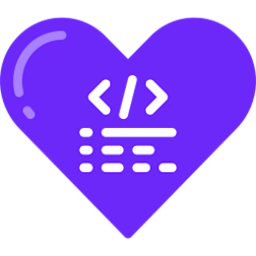
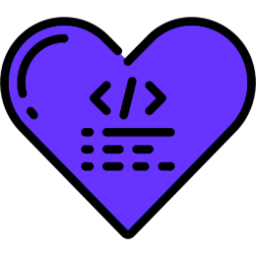
edit style

Changed region(s): [[0.0, 0.0625, 1.0, 0.9375], [0.3438, 0.2812, 0.5312, 0.4688], [0.5625, 0.3125, 0.6562, 0.4688]]

diff --git a/css/styles.css b/css/styles.css
@@ -42,13 +42,14 @@ h1 {
 	font-family: shelby, cursive; 
 font-weight: 700;
 	font-size:5.5em; 
-	line-height: 1.3; 
-	color: #42d5ff;
+	color: #33ccff;
 	text-shadow:
    -0.9px -0.9px 0 #00000040,  
     0.9px -0.9px 0 #00000040,
     -0.9px 0.9px 0 #00000040,
-     2px 2px 0px #000;
+	 2px 2px 0px #000;
+	 margin-bottom: 0!important;
+	 margin-top: 5vh;
 
 }
 
@@ -63,7 +64,7 @@ p{ line-height: 1; font-size: 1.1em; font-weight: 300;
 	 -0.9px 0.9px 0 #00000059,
 	  1.5px 1.5px 0px #000;}
 
-h2{ font-size: 5em; font-weight: 300; line-height: 1; color: #ff13b3; 	
+h2{ font-size: 5em; font-weight: 300; line-height: 1; color: #ff00cc; 	
 	text-shadow:
 	-0.9px -0.9px 0 #00000040,  
 	 0.9px -0.9px 0 #00000040,
@@ -146,7 +147,7 @@ html {
 	display: block;
 	overflow: hidden;
 	position: relative;
-	width: 100px;
+	width: 125px;
 	height: auto;
 
 }
@@ -161,10 +162,12 @@ width: 100%;
 /* .main-area:after{ content:''; position: absolute; top: 0; bottom: 0;left: 0; right: 0; z-index: -1;  
 	opacity: .7; background: linear-gradient(-9deg, #6a82fb 0%, #6a82fb 40%, #fc5c7d 100%); } */
 
-.main-area .desc{ margin: 20px auto; max-width: 500px; }
+.main-area p.desc{ margin: 20px auto; max-width: 500px; }
+
+.main-area div.desc {margin: 0 auto 1em; max-width: 125px; }
 	
-.main-area .notify-btn{ margin: 20px 0; padding: 13px 35px; border-radius: 50px; border: 2px solid #42d5ff;
-	color: #fff; background: #42d5ff; }
+.main-area .notify-btn{ margin: 20px 0; padding: 13px 35px; border-radius: 50px; border: 2px solid #33ccff;
+	color: #fff; background: #33ccff; }
 
 .main-area .notify-btn:hover{ background: none; }
 
@@ -173,21 +176,21 @@ width: 100%;
 
 .main-area .email-input-area{ margin: 40px auto; position: relative; width: 450px; height: 53px; }
 
-.main-area .email-input-area .email-input{ font-family: p22-underground-pc, sans-serif;	width: 100%; position: absolute; top: 0; bottom: 0; left: 0; 
+.main-area .email-input-area .email-input{ width: 100%; position: absolute; top: 0; bottom: 0; left: 0; 
 	border-radius: 40px; border: 0; outline: 0; padding: 0 140px 0 25px; transition: all .2s; background: #F1F2F3; 
-	box-shadow: inset 0 0 1px rgba(0,0,0,.1), 0px 0px 0px 5px rgba(255,255,255,.3); border: 1px solid transparent; font-size: 1.2em;}
+	box-shadow: inset 0 0 1px rgba(0,0,0,.1), 0px 0px 0px 5px rgba(255,255,255,.3); border: 1px solid transparent; font-family: p22-underground-pc, sans-serif; font-size: 0.9em; font-weight: 300;}
 
 .main-area .email-input-area .email-input:focus{ border-color: #f89fbc; }
 
 
-.main-area .email-input-area .submit-btn{ font-family: shelby, cursive;  width: 120px; text-align: center; position: absolute; top: 5px; bottom: 5px; right: 5px; font-size: 1.5em; letter-spacing: 0.1em; font-weight: 700 !important; 
-	border-radius: 40px; border: 2px black solid; transition: all .3s; background: #6b28f9; color: #000; -webkit-box-shadow: 2px 2px 0px 0.25px rgba(0,0,0,0.75);
+.main-area .email-input-area .submit-btn{ text-transform: uppercase; width: 120px; text-align: center; position: absolute; top: 5px; bottom: 5px; right: 5px; font-size: 1em; font-weight: 600 !important; letter-spacing: 0.1em; 
+	border-radius: 40px; border: 2px black solid; transition: all .3s; background: #6633ff; color: #000; -webkit-box-shadow: 2px 2px 0px 0.25px rgba(0,0,0,0.75);
 	-moz-box-shadow: 2px 2px 0px 0.25px rgba(0,0,0,0.75);
 	box-shadow: 2px 2px 0px 0.25px rgba(0,0,0,0.75);
-	text-shadow: -0.35px -0.35px 0 #00000059, 0.35px -0.35px 0 #00000059, -0.35px 0.35px 0 #00000059, 0.35px 0.35px 0px #000;}
+	}
 
 
-.main-area .email-input-area .submit-btn:hover{ background: #43049c; }
+.main-area .email-input-area .submit-btn:hover{ background: #333399; }
 
 
 
@@ -248,10 +251,10 @@ width: 100%;
 	1. PRIMARY STYLES
 	--------------------------------- */
 
-	p{ font-size: 1.75em; line-height: 1.4; }
+	p{ font-size: 1.5em; line-height: 1.4; }
 
-	h1{ font-size: 4.7em; line-height: 1.75; }
-	h2{ font-size: 5em; line-height: 1.4; letter-spacing: 0.07em; }
+	h1{ font-size: 5.5em; line-height: 1.75; }
+	h2{ font-size: 6em; line-height: 1.25; letter-spacing: 0.07em; }
 	h3{ font-size: 1.8em; }
 	
 	
@@ -260,13 +263,17 @@ width: 100%;
 	--------------------------------- */
 	
 	.main-area{ padding-bottom: 80px; }
+
+	.brand-icon {
+		width: 96px;
+	}
 	
-	.main-area .email-input-area{ margin: 5% auto; width: 90%; height: 47px; }
+	.main-area .email-input-area{ margin: 5% auto; width: 90%; height: 47px; font-size: 1.4em;}
 	
 	.main-area .email-input-area .email-input{ width: 100%; position: absolute; top: 0; bottom: 0; left: 0; 
-	border-radius: 40px; border: 0; outline: 0; padding: 0 95px 0 15px; }
+	border-radius: 40px; border: 0; outline: 0; padding: 5px 95px 0 15px; }
 
-	.main-area .email-input-area .submit-btn{ width: 80px; text-align: center; position: absolute; top: 5px; bottom: 5px; right: 5px;  }
+	.main-area .email-input-area .submit-btn{ width: 80px; text-align: center; position: absolute; top: 4px; bottom: 4px; right: 5px; font-size: 1.15em; }
 	
 	
 	/* TIME COUNTDOWN */

diff --git a/index.html b/index.html
@@ -40,8 +40,8 @@
 		<div class="display-table">
 			<div class="display-table-cell">
 				<h1 class="title">GiGi's Web Design</h1>
+				<div class="desc center-text brand-icon"><img src="images/heart-6633ff.png"></div>
 				<h2 class="subtitle">Coming Soon</h2>
-<div class="desc center-text brand-icon"><img src="images/heart-6b28f9.png"></div>
 				<p class="desc font-white">This website is currently under construction.
 					Please contact me directly for updates or inquiries.</p>
 				
